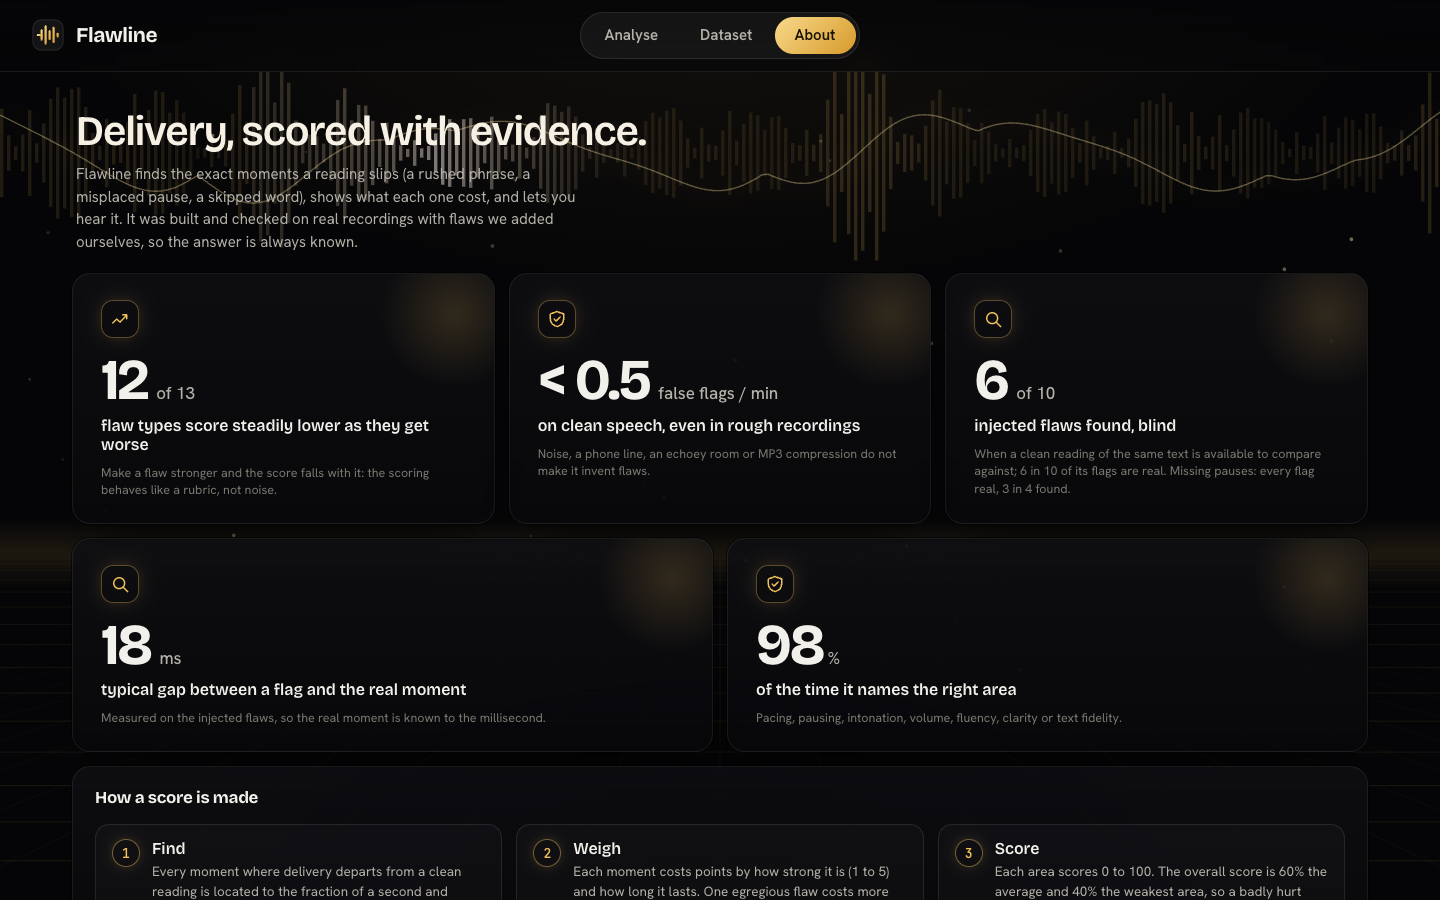
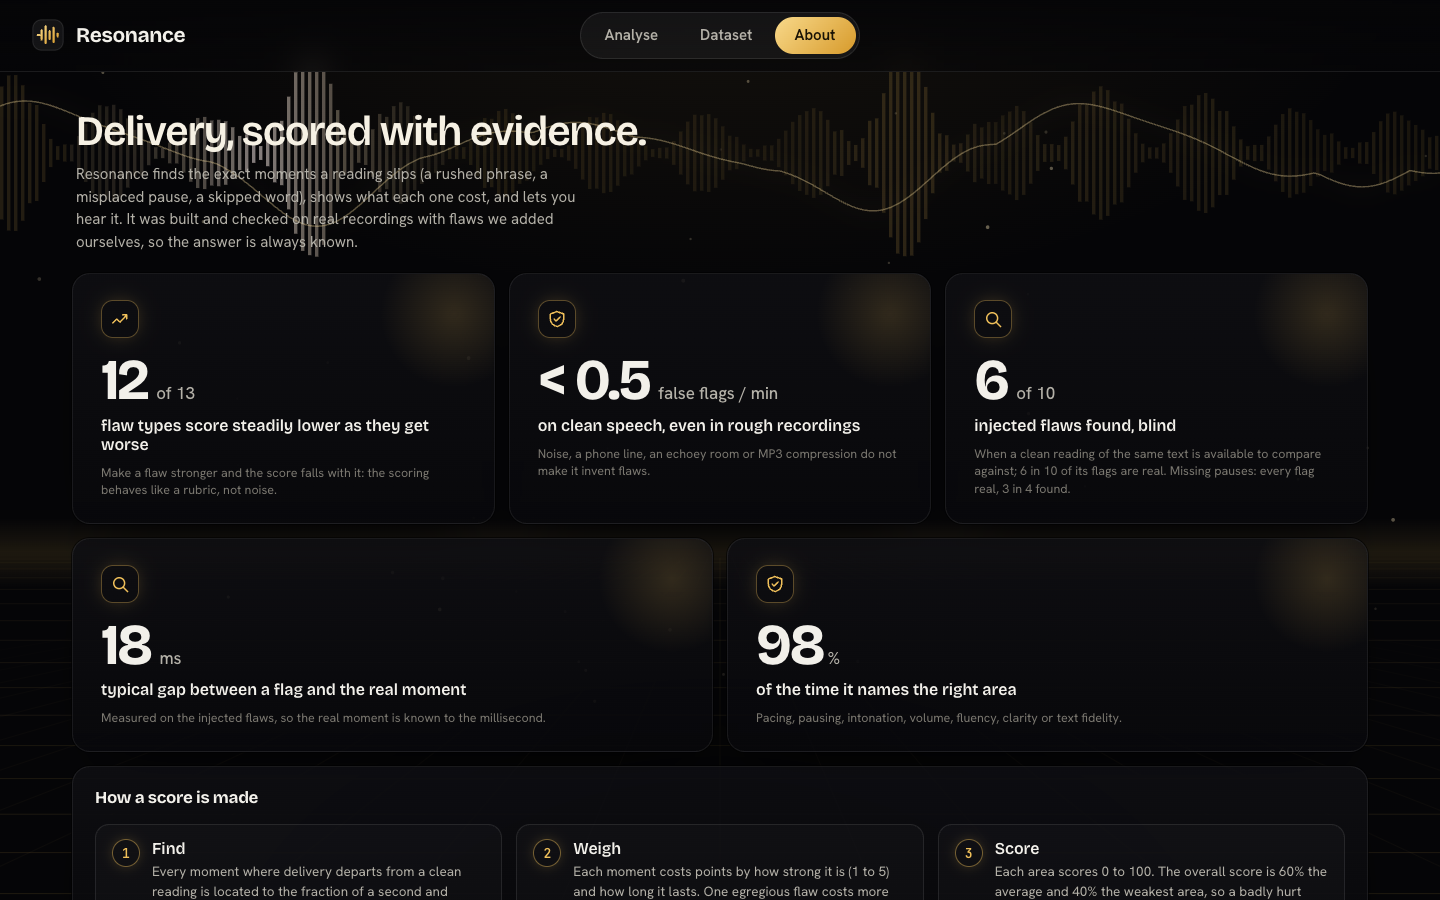
Rewrite README for public release; extend apply_brand.py to write the links row

diff --git a/scripts/apply_brand.py b/scripts/apply_brand.py
@@ -1,16 +1,25 @@
-"""Write the product name from app/brand.json into the README headline (between the BRAND markers). Run after changing the name: python scripts/apply_brand.py"""
+"""Write the product name, tagline and release links into the README (between the BRAND and LINKS markers) from app/brand.json and app/links.json.
+   python scripts/apply_brand.py"""
 import json
 import re
 from pathlib import Path
 
 ROOT = Path(__file__).resolve().parent.parent
 b = json.loads((ROOT / "app" / "brand.json").read_text())
+L = json.loads((ROOT / "app" / "links.json").read_text())
 p = ROOT / "README.md"
 s = p.read_text()
-block = f"<!-- BRAND:start -->\n# {b['product']}\n\n**{b['tagline']}**" + (f" The product built on the {b['dataset']} dataset and benchmark." if b["product"] != b["dataset"] else "") + "\n<!-- BRAND:end -->"
-if "<!-- BRAND:start -->" in s:
-    s = re.sub(r"<!-- BRAND:start -->.*?<!-- BRAND:end -->", block, s, flags=re.S)
-else:
-    s = s.replace("# Flawline\n", block + "\n", 1)
+
+
+def sub(tag: str, body: str) -> None:
+    global s
+    s = re.sub(rf"<!-- {tag}:start -->.*?<!-- {tag}:end -->", lambda _: f"<!-- {tag}:start -->\n{body}\n<!-- {tag}:end -->", s, flags=re.S)
+
+
+sub("BRAND", f"# {b['product']}\n\n**{b['tagline']}**")
+item = lambda label, url: f"[{label}]({url})" if url else f"{label} (link at release)"
+local = lambda u, d: u if u.startswith("http") else d
+sub("LINKS", " · ".join([item("Demo video", L.get("video", "")), item("Dataset download", L.get("dataset", "")),
+                         f"[Technical report (PDF)]({local(L.get('report', ''), 'docs/technical_report.pdf')})", f"[Datasheet]({local(L.get('datasheet', ''), 'DATASHEET.md')})"]))
 p.write_text(s)
-print("README headline:", b["product"])
+print("README updated:", b["product"])

diff --git a/README.md b/README.md
@@ -1,93 +1,133 @@
 <!-- BRAND:start -->
 # Resonance
 
-**Detect. Explain. Improve.** The product built on the Flawline dataset and benchmark.
+**Detect. Explain. Improve.**
 <!-- BRAND:end -->
 
-Contrastive speech analytics (hackathon Track C). Real recorded speakers read a known text; controlled delivery flaws (pace, pauses, intonation, volume, fluency, clarity, text fidelity) are injected at known places and strengths, so every label is ground truth. An engine then finds the flaws blind, says where and why, and scores the delivery.
+Speech delivery analytics built on the Flawline benchmark (Track C: Contrastive Speech Analytics & Temporal Flaw Grounding).
 
-- **Dataset:** 564 clips, 9.97 h, 10 baseline recordings (8 VCTK voices + 2 excerpts of JFK's 1962 Rice University address), 15 flaws × 5 levels, 6 recording conditions. Datasheet: [`DATASHEET.md`](DATASHEET.md). Licences: [`flawline-dataset/LICENSES.md`](flawline-dataset/LICENSES.md).
-- **Download:** _link to the released zip (with `checksums.sha256`) goes here._
-- **Video:** _link goes here._
-- **Status, known failures, history:** [`PROGRESS.md`](PROGRESS.md).
+<!-- LINKS:start -->
+Demo video (link at release) · Dataset download (link at release) · [Technical report (PDF)](docs/technical_report.pdf) · [Datasheet](DATASHEET.md)
+<!-- LINKS:end -->
 
-## Run it (3 commands)
+![Resonance analysing a reading: score, timeline with flagged moments, and the cause of each](docs/screenshots/analyse_shout_1440x900.png)
+
+## What it does
+
+- Upload a recording of someone reading aloud, with the text if you have it.
+- Flagged moments appear on a timeline with exact start and end times.
+- Each moment comes with a plain-language cause, the points it cost and a coaching tip.
+- **Try that part again** records a retake of one phrase and compares it with the first attempt on the measurement behind the flag.
+- Download a report with the score, every flagged moment, its explanation and its tip.
+
+Accent, voice and recording conditions are not scored: noise, a phone line, room echo and compression are covered by invariance tests (see [`docs/RESULTS.md`](docs/RESULTS.md)).
+
+## Quick start
+
+Requirements: Python 3.13 (tested with 3.13.1) and `ffmpeg`.
 
 ```bash
-make setup                  # pinned dependencies (requirements.lock) + spaCy model; needs ffmpeg
-make baselines dataset      # download VCTK + the JFK excerpts, align them, generate every clip   (or unzip the released dataset into flawline-dataset/)
-make app                    # the web app: http://localhost:8501 (Analyse, Dataset, About)
+make setup                     # pinned dependencies (requirements.lock) and the spaCy model
+# download the Flawline dataset (link above) and unzip it into flawline-dataset/
+make app                       # http://localhost:8501  (Analyse, Dataset, About)
 ```
 
-Docker: `docker build -t flawline . && docker run -p 8501:8501 flawline`. The image holds the code and dependencies only; put the released `takes/` (baseline audio + alignment JSON) in `flawline-dataset/takes/` for the engine, because re-aligning on another machine moves word timings by up to 0.37 s. `make eval` re-runs the checks below on the train and dev splits (never the test split).
+Docker: the image holds the code and dependencies; mount the unzipped dataset.
 
-## What the engine does
+```bash
+docker build -t resonance .
+docker run -p 8501:8501 -v "$PWD/flawline-dataset:/app/flawline-dataset" resonance
+```
 
-Three ways to know what "good" is, chosen in the dashboard:
+To rebuild the dataset instead of downloading it: `make baselines dataset` (fetches VCTK and the JFK excerpts, aligns them, generates every clip).
 
-| Mode | Needs | Use |
-|---|---|---|
-| **General** (default) | the text read + the audio | expectations from the speaker's own clip, the transcript (pause norms by boundary type, ASR vs text) and population norms from clean speakers |
-| **Same speaker** | the speaker's own clean reading | upper bound; the validated headline |
-| **Another speaker** (experimental) | other speakers reading the same sentences | a panel of references must agree before a flaw is reported |
+## The Flawline benchmark
 
-Pipeline: 16 kHz ingest and quality gate → (reference modes) degrade the clean reference to the participant's bandwidth/noise/reverb → DTW alignment, lag curve read as insertions/deletions and tempo → one detector per flaw → cross-detector arbitration → isotonic severity → rubric score `S = 100·exp(−P/35)` per category; overall = 0.6 × genre-weighted mean + 0.4 × worst area, and the band is capped by the worst area (an area under 50 rules out polished and strong) → plain-language explanation with the measured numbers. The generator and the engine never import each other.
+563 clips, about 10 hours: 10 baseline recordings (8 VCTK speakers and 2 excerpts of the 1962 Rice University address), 15 flaws at 5 levels each, and 6 recording conditions. Every flaw is injected at a known place and strength, so every label is ground truth. Splits hold out speakers (train, dev, test; the two JFK excerpts form a separate evaluation set).
 
-## Results (honest)
+| Category | Flaws |
+|---|---|
+| Pacing | rushed, dragging |
+| Pausing | pause in the wrong place, missing pause |
+| Intonation | flat pitch, rise on a statement, buried emphasis |
+| Volume | trailing off, sudden loud stretch |
+| Fluency | filler sounds, false starts, hesitation before a hard word |
+| Clarity | slurred consonants |
+| Text fidelity | skipped words, misread words |
 
-Event F1 at IoU 0.5 against the injected truth. Thresholds are fitted on **train** only; **dev** is B03; **extra** is the two JFK baselines (never tuned on); the **test** split (B05, B08) has not been run yet.
+Label format: [`schema/label.schema.json`](schema/label.schema.json) (v1.1.0), example in [`schema/example.label.json`](schema/example.label.json). Datasheet: [`DATASHEET.md`](DATASHEET.md). Licences: [`flawline-dataset/LICENSES.md`](flawline-dataset/LICENSES.md).
 
-| Mode | Train | Dev | JFK 1962 (extra) | Flaws counted |
+## How it works
+
+Ingest → quality gate → alignment → detectors → arbitration → severity → rubric score → explanation. The generator that writes the benchmark and the engine that reads it never import each other.
+
+Each of the 7 areas scores `100 · exp(−points lost / 35)`; the overall score is `0.6 × weighted mean of the areas + 0.4 × weakest area`, so one badly hurt area cannot hide behind an average. Weights depend on the kind of speaking (interpretive reading, declamation, extemporaneous, persuasive oratory) and are listed in [`engine/rubric.yaml`](engine/rubric.yaml).
+
+Two modes:
+- **With a clean reading of the same text** (most accurate): the engine compares the recording with the clean reading.
+- **Upload mode** (no reference): the engine uses the transcript, the speaker's own clip and norms from clean speakers. It is less accurate and covers fewer flaw types.
+
+## Results
+
+Event F1 against the injected flaws, 11 headline flaws, thresholds fitted on train only.
+
+| Same-speaker mode | F1 (IoU ≥ 0.5) | F1 (IoU ≥ 0.3) | Median onset error | Area accuracy |
 |---|---|---|---|---|
-| Same speaker (headline) | **0.61** | **0.66** | 0.55 | 11 |
-| General | 0.35 | 0.38 | 0.10 | 5 |
-| Another speaker (experimental, not re-run after the 7 Oct regeneration) | 0.23 | 0.22 | n/a | 8 |
+| Train (235 clips) | 0.611 | 0.670 | 17.5 ms | 98% |
+| Dev (20 clips) | 0.659 | 0.729 | 29.5 ms | 100% |
+| JFK 1962 (160 clips) | 0.551 | 0.607 | 26.1 ms | 96% |
 
-In plain terms (same speaker, train): it finds about 6 of 10 flaws and about 6 of 10 of its flags are real (precision 0.61, recall 0.61). With no reference: about 4 of 10 found, 3 of 10 flags real.
+Upload mode (5 detectable flaws): F1 0.351 on train, 0.375 on dev, 0.095 on JFK 1962.
 
-- **Headline flaws (11):** FADE, FILLER, MONOTONE, PACE_FAST, PACE_SLOW, PAUSE_BAD, PAUSE_LOST, SHOUT, SLUR, WORD_SKIP, WORD_SWAP. FILLER and PAUSE_BAD are leakage-flagged (see below).
-- **Experimental, excluded from headline metrics and hidden by default:** EMPH_FLAT (VCTK voices are too flat for the flattening to scale with level; F1 0.09), REPEAT (0.13), UPTALK (0.25), RARE_HESIT (non-monotone dose-response, leakage 0.70).
-- **General mode does not reach the 0.4 bar** and does not transfer to the noisy 1962 recording (ASR errors and clean-speaker norms produce false flags). Localised pace changes, slurring, skipped words and monotone are not detectable without a reference, so only 5 flaws count there.
-- **Other ways to count the same events** (headline flaws; strict = flag overlaps the real moment by at least half, standard = at least 30 %, onset = right flaw type and start within 250 ms):
+- The score falls with flaw level for 12 of 13 scored flaws (Spearman ρ ≤ −0.9).
+- False flags on unaltered speech under noise, phone, room, MP3 and gain: 0.45 per minute.
+- Worst score shift of an unaltered reading under those conditions: 6.5 points.
 
-| | Strict F1 | Standard F1 | Onset F1 | Typical gap to the real start | Names the right area |
-|---|---|---|---|---|---|
-| Same speaker, train | 0.61 | 0.67 | 0.58 | 18 ms | 98 % |
-| Same speaker, dev | 0.66 | 0.73 | 0.54 | 30 ms | 100 % |
-| Same speaker, JFK 1962 | 0.55 | 0.61 | 0.53 | 26 ms | 96 % |
-| General, train | 0.35 | 0.36 | 0.33 | 67 ms | 86 % |
-| General, dev (6 of 23 found) | 0.38 | 0.38 | 0.38 | 70 ms | 86 % |
-| General, JFK 1962 | 0.10 | 0.10 | 0.09 | 66 ms | 74 % |
+Every metric, split, acceptance test and leakage-audit result, with how it was measured: [`docs/RESULTS.md`](docs/RESULTS.md).
 
-- **Score acceptance tests (same speaker):** score falls with level for 12 of 13 scored flaws (RARE_HESIT fails, rho -0.64; UPTALK and EMPH_FLAT are experimental and not scored). One weight per flaw now makes a single level-5 flaw land at about 60 overall for every flaw type (56 to 65; it was 56 to 92 before). False flags under noise/phone/room/codec: 0.45 per minute (target <= 0.5, passes). Worst clean-speech score shift under those conditions: 6.5 points (target < 10, met; the older target < 3 is **not** met); mean shift by condition 0.0 to 1.6. A lone flag in a rough recording counts half and cannot be the weakest area. Points lost in other areas on level-3 clips: 6.1 (target < 2, **not met**; it rose from 3.7 when the flaw weights went up).
-- **Leakage audit** (classifier sees only editing artifacts): AUC 0.591 on held-out test windows (mark 0.60), 0.612 leave-one-speaker-out, about 0.7 for RARE_HESIT, FILLER, PAUSE_BAD, EMPH_FLAT. Reported as is; the audit definition changed during the project (v2, see `PROGRESS.md`).
-- **Not done:** the by-ear realism rating of the injected flaws (one listener checked 8 pairs on 7 Oct; fixes from that listening are in), a speech-accent corpus, speakers over 45 or with slang. Skipped-word detection with no reference reading was tried again and stays off (precision 0.07 on train); the human reference set below is the independent check.
+## Limitations
 
-## Human reference set (listening study)
+- Upload mode is weaker than the reference mode and does not transfer to noisy archival speech.
+- Skipped words are detected only when a clean reading of the text is available.
+- Four flaws (buried emphasis, repeated words, rise on a statement, hesitation) are experimental and excluded from the headline numbers.
+- The speaker pool is small (8 voices aged 18 to 38, read speech).
+- Realism of the injected flaws was checked by one listener.
 
-People listen to a few readings, press Space where something slips, name the area, and give an overall score from 1 to 10. The engine (upload mode, never tuned on this set) is then compared with them: how many of the human marks it flagged, how many of its flags a listener also marked, and whether its score ranks the readings the way listeners do. Five of the clips are dataset clips with hidden injected flaws, so the listeners' own hit rate on known flaws is measured too.
+## Deliverables
 
-```bash
-make label                       # http://localhost:8501/label  (each rater opens it on their own machine and enters a name)
-python eval/human_agreement.py   # results/human_agreement.json and .txt, with counts next to every percentage
-make review                      # http://localhost:8501/review: listen to engine flags no listener marked; Agree / Disagree / Unsure
-```
-Clips live in `flawline-dataset/human/clips/` (WAV, M4A or FLAC; neutral file names, order shuffled per rater); labels are saved to `flawline-dataset/human/labels_<rater>.json`. To add your own recordings, drop the files in `clips/` and, optionally, their text in `transcripts.json`. Only recordings whose speakers agreed to it are released. Results appear here and on the About page once raters have finished.
+| Requirement | Where |
+|---|---|
+| Dataset, datasheet, licences | Dataset download (link above); [`DATASHEET.md`](DATASHEET.md); [`flawline-dataset/LICENSES.md`](flawline-dataset/LICENSES.md) |
+| Dashboard: upload, feature extraction, visual and text output | `make app`: Analyse, Dataset, About pages ([`app/`](app/)) |
+| Temporal flaw grounding | Start and end of every flagged moment; metrics in [`docs/RESULTS.md`](docs/RESULTS.md) |
+| Causal explanations | Cause, points lost and coaching tip per moment ([`engine/explain.py`](engine/explain.py)) |
+| Technical report (6 pages) | [`docs/technical_report.pdf`](docs/technical_report.pdf) |
+| Demo video | Link above |
+| Reproducibility | `make` targets, `Dockerfile`, [`requirements.lock`](requirements.lock), [`flawline-dataset/checksums.sha256`](flawline-dataset/checksums.sha256) |
 
-## Layout
+## Repository layout
 
 ```
-flawline-dataset/   generator/ (flaw factory, ingest, QA)  takes/ (baseline audio + alignment)  variants/ (clips + labels)  manifest.csv
-engine/             audio, conditions, dtw, compare, detect, free (general mode), consensus, arbitrate, score, explain, calibrate*, model.json, norms.json
-eval/               metrics, acceptance tests, leakage audit, headline metrics, harness self-test
-schema/             label.schema.json (v1.1.0) + validator
-app/                web app: FastAPI service + static front end (Analyse, Dataset, About); `LAB=1` / `make lab` adds the lab pages
-dashboard/          lab pages only (Streamlit): Alterations review, Baselines, Pilot gate
-spec-v1.1.md        the build spec
+app/                web app: FastAPI service and static front end
+engine/             analysis engine: alignment, detectors, scoring, explanations, rubric
+eval/               metrics, acceptance tests, leakage audit, headline evaluation
+flawline-dataset/   generator/, baselines/, manifest.csv, checksums (audio is distributed separately)
+dashboard/          lab pages (Streamlit)
+schema/             label schema and validator
+docs/               RESULTS.md, technical report, screenshots
+scripts/            helpers (brand, results document, listening-study clip set)
 ```
 
-Web app pages (three colours only: grey data, gold = what you can act on, coral = points lost): **Analyse** (drop a recording or pick a demo; a compact verdict with bars only for the areas that lost points, a timeline with numbered flagged moments and the expected range, a flaw card with audio, the highlighted transcript, and an Advanced panel with an optional reference reading and the details table), **Dataset** (tiles, what gets injected in plain words, a Hear-a-pair card, conditions, speakers, quality gates, manifest), **About** (three plain-language headline numbers, glossary, full results collapsed). The mode, genre, rubric, experimental-detector and dataset-clip controls appear with `LAB=1`. Lab pages (`LAB=1`): **Alterations review** (original vs altered with a synced spectrogram player), **Baselines**, **Pilot gate** (the by-ear review sheet). Screenshots at 1440x900 are in `docs/screenshots/`.
+## Developer tools
 
-## Licences
+- `make lab`: lab pages for the dataset (alterations review, baselines, pilot gate).
+- `make label` and `make review`: listening-study tools (labelling page and flag review). Built; not used for any reported result.
+- `make eval`: harness self-test, acceptance tests, leakage audit, and headline metrics on train and dev (never the test split).
 
-Code: see repository licence file. Data: per subset in `flawline-dataset/LICENSES.md` (VCTK CC BY 4.0, JFK public domain).
+## Acknowledgements and licence
+
+- VCTK 0.92: Veaux, Yamagishi and MacDonald (2017), University of Edinburgh, CC BY 4.0.
+- President Kennedy's 1962 address at Rice University: John F. Kennedy Presidential Library and Rice University recording, public domain.
+- Libraries: faster-whisper, spaCy, Praat via parselmouth, librosa, FastAPI.
+
+Code: MIT ([`LICENSE`](LICENSE)). Data keeps its own licences ([`flawline-dataset/LICENSES.md`](flawline-dataset/LICENSES.md)).
